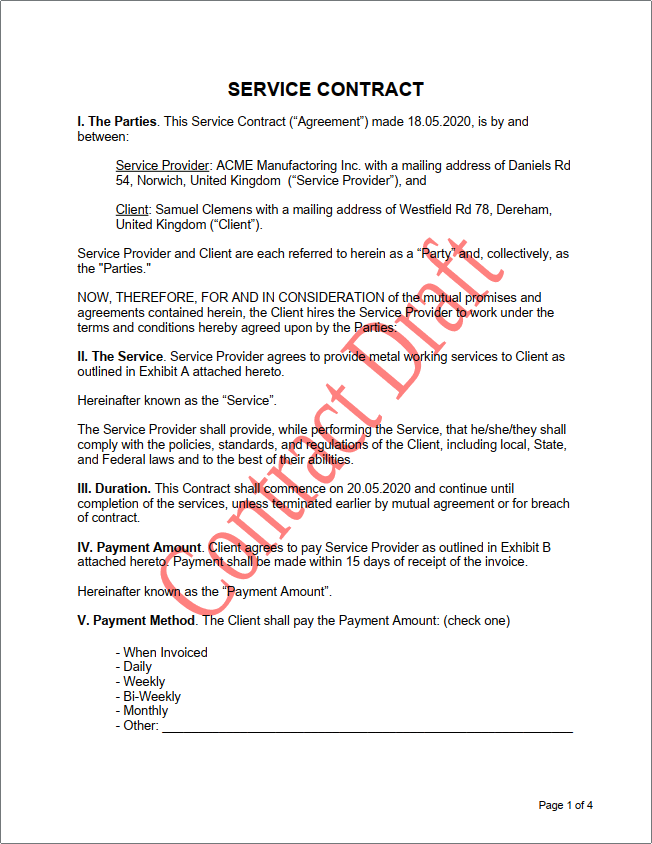
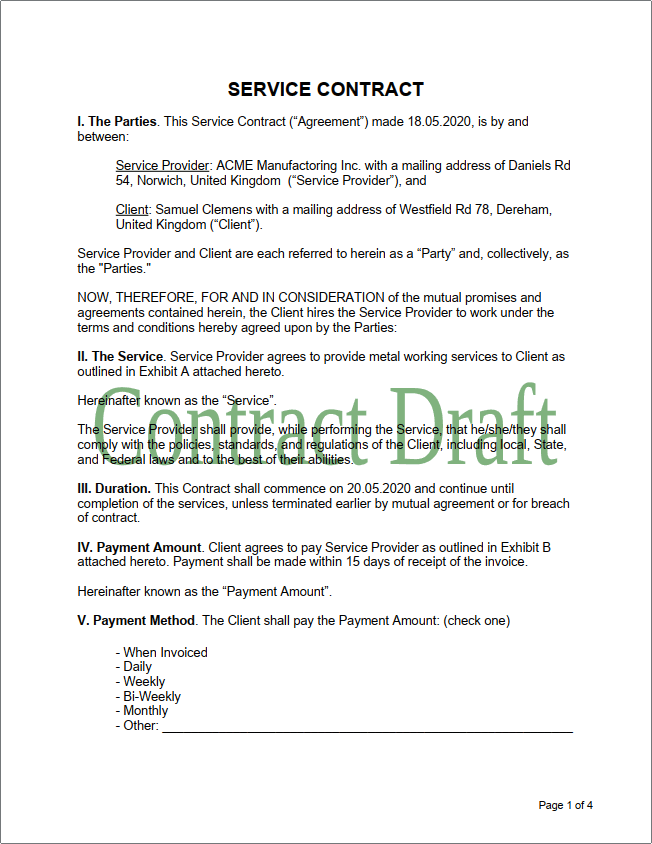
WATERMARKNET-1483: Describe how to customize watermarks

Changed region(s): [[0.1227, 0.2773, 0.8589, 0.7393]]

diff --git a/net/developer-guide/basic-usage/customize.md b/net/developer-guide/basic-usage/customize.md
@@ -8,33 +8,112 @@ keywords: rotate watermark, position watermark, move watermark, scale watermark
 productName: GroupDocs.Watermark for .NET
 hideChildren: True
 ---
-When adding watermarks, their orientation is not limited to horizontal only. You can specify whichever rotation angle you want. 
+GroupDocs.Watermark offers many capabilities to customize how the watermark would look and where it will be positioned within the document.
 
-To rotate text or image watermark, set the desired angle using the [Watermark.RotateAngle](https://reference.groupdocs.com/watermark/net/groupdocs.watermark/watermark/rotateangle/) property:
+## Customizing text watermarks
+
+To adjust a text watermark to your needs, use the properties of the [`TextWatermark`](https://reference.groupdocs.com/watermark/net/groupdocs.watermark.watermarks/textwatermark/#properties) class. 
+
+The following options could be set:
+| Option | Description |
+|--------|-------------|
+|**[BackgroundColor](https://reference.groupdocs.com/watermark/net/groupdocs.watermark.watermarks/textwatermark/backgroundcolor)** | Specifies the background color of the text. |
+|**[ConsiderParentMargins](https://reference.groupdocs.com/watermark/net/groupdocs.watermark/watermark/considerparentmargins)** | Whether to take into account the existing page margins of the document when calculating the watermark's size and coordinates. Default: false.|
+|**[Font](https://reference.groupdocs.com/watermark/net/groupdocs.watermark.watermarks/textwatermark/font)** | Specifies the current font of the text watermark. |
+|**[ForegroundColor](https://reference.groupdocs.com/watermark/net/groupdocs.watermark.watermarks/textwatermark/foregroundcolor)** | Specifies the foreground color of the text. |
+|**[Height](https://reference.groupdocs.com/watermark/net/groupdocs.watermark/watermark/height)** | Specifies the desired height of the watermark. |
+|**[HorizontalAlignment](https://reference.groupdocs.com/watermark/net/groupdocs.watermark/watermark/horizontalalignment)** | Specifies the horizontal alignment of the watermark. Possible values are `None` (default), `Left`, `Center`, and `Right`.|
+|**[IsBackground](https://reference.groupdocs.com/watermark/net/groupdocs.watermark/watermark/isbackground)** | Whether to place the watermark below (true) or above (true) the main content. Default: false. |
+|**[Margins](https://reference.groupdocs.com/watermark/net/groupdocs.watermark/watermark/margins)** | Specifies the watermark margins. |
+|**[Opacity](https://reference.groupdocs.com/watermark/net/groupdocs.watermark/watermark/opacity)** | Defines the opacity of the watermark as a value ranging from 0 (fully transparent) to 1 (solid filling). |
+|**[RotateAngle](https://reference.groupdocs.com/watermark/net/groupdocs.watermark/watermark/rotateangle/)** | Defines the rotation angle of the watermark. A positive value corresponds to a clockwise rotation angle, negative - to a counterclockwise rotation angle. |
+|**[ScaleFactor](https://reference.groupdocs.com/watermark/net/groupdocs.watermark/watermark/scalefactor)** | Specifies how the watermark size depends on the size of a parent document. |
+|**[SizingType](https://reference.groupdocs.com/watermark/net/groupdocs.watermark/watermark/sizingtype)** | Specifies a way the watermark should be sized. Possible values are `Auto` (default), `Absolute`, `ScaleToParentDimensions`, and `ScaleToParentArea`. |
+|**[Text](https://reference.groupdocs.com/watermark/net/groupdocs.watermark.watermarks/textwatermark/text)** | Defines the text of the watermark. |
+|**[TextAlignment](https://reference.groupdocs.com/watermark/net/groupdocs.watermark.watermarks/textwatermark/textalignment)** | Specifies the alignment of text. Possible values are `Left` (default), `Center`, `Right`, and `Justify`.  |
+|**[VerticalAlignment](https://reference.groupdocs.com/watermark/net/groupdocs.watermark/watermark/verticalalignment)** | Specifies the vertical alignment of the watermark. Possible values are `None` (default), `Left`, `Center`, and `Bottom`. |
+|**[Width](https://reference.groupdocs.com/watermark/net/groupdocs.watermark/watermark/width)** | Specifies the desired width of the watermark. |
+|**[X](https://reference.groupdocs.com/watermark/net/groupdocs.watermark/watermark/x)** | Specifies the horizontal coordinate of the watermark within the parent document. |
+|**[Y](https://reference.groupdocs.com/watermark/net/groupdocs.watermark/watermark/y)** | Specifies the vertical coordinate of the watermark within the parent document. |
+
+
+The code below demonstrates how to specify the desired watermark appearance and position before applying it to the document:
 
 ```csharp
 using GroupDocs.Watermark;
+using GroupDocs.Watermark.Common;
 using GroupDocs.Watermark.Watermarks;
 
 // Specify an absolute or relative path to your document.
 using (Watermarker watermarker = new Watermarker("C:\\Docs\\sample.docx"))
 {
     // Specify the desired text and font for the watermark
-    TextWatermark watermark = new TextWatermark("Top secret", new Font("Courier New", 14));
-    // Specify font color
-    watermark.ForegroundColor = Color.Red;    
-    // Set rotation angle
-    watermark.RotateAngle = 35;
+    TextWatermark watermark = new TextWatermark("Customized watermark.", new Font("Arial", 24, FontStyle.Bold));
+    // Specify the appearance and the position of the watermark
+    watermark.ForegroundColor = Color.DarkOrange;
+    watermark.ConsiderParentMargins = true;
+    watermark.HorizontalAlignment = HorizontalAlignment.Center;
+    watermark.VerticalAlignment = VerticalAlignment.Top;
+    watermark.SizingType = SizingType.ScaleToParentDimensions;
+    watermark.RotateAngle = 45;
+    watermark.ScaleFactor = 0.7;
     // Apply the watermark
     watermarker.Add(watermark);
     // Save the resulting document
     watermarker.Save("C:\\Docs\\watermarked-sample.docx");
 }
 ```
-Run the program. A watermark will be added at a specified angle.
+Run the program. A watermark will be added at a specified position and will have the specified look.
 
-![Rotating watermarks](/watermark/net/images/watermarking/angled-watermark.png)
+![Customized text watermark](/watermark/net/images/watermarking/custom-text-watermark.png)
 
-### What's next
+## Customizing image watermarks
 
-GroupDocs.Watermark offers many more capabilities for adding text watermarks. For example, it allows specifying background and foreground colors, formatting, text opacity, use of absolute or relative positioning, and so on. To learn more about this, see the [Adding text watermarks]({{< ref "watermark/net/developer-guide/advanced-usage/adding-watermarks/adding-text-watermarks.md" >}}) article of the "Advanced usage" section.
+Image watermarks have similar settings that affect their look and position. To adjust an image watermark, use the properties of the [`ImageWatermark`](https://reference.groupdocs.com/watermark/net/groupdocs.watermark.watermarks/imagewatermark/#properties) class. 
+
+The following options could be set:
+| Option | Description |
+|--------|-------------|
+|**[ConsiderParentMargins](https://reference.groupdocs.com/watermark/net/groupdocs.watermark/watermark/considerparentmargins)** | Whether to take into account the existing page margins of the document when calculating the watermark's size and coordinates. Default: false.|
+|**[Height](https://reference.groupdocs.com/watermark/net/groupdocs.watermark/watermark/height)** | Specifies the desired height of the watermark. |
+|**[HorizontalAlignment](https://reference.groupdocs.com/watermark/net/groupdocs.watermark/watermark/horizontalalignment)** | Specifies the horizontal alignment of the watermark. Possible values are `None` (default), `Left`, `Center`, and `Right`.|
+|**[IsBackground](https://reference.groupdocs.com/watermark/net/groupdocs.watermark/watermark/isbackground)** | Whether to place the watermark below (true) or above (true) the main content. Default: false. |
+|**[Margins](https://reference.groupdocs.com/watermark/net/groupdocs.watermark/watermark/margins)** | Specifies the watermark margins. |
+|**[Opacity](https://reference.groupdocs.com/watermark/net/groupdocs.watermark/watermark/opacity)** | Defines the opacity of the watermark as a value ranging from 0 (fully transparent) to 1 (solid filling). |
+|**[RotateAngle](https://reference.groupdocs.com/watermark/net/groupdocs.watermark/watermark/rotateangle/)** | Defines the rotation angle of the watermark. A positive value corresponds to a clockwise rotation angle, negative - to a counterclockwise rotation angle. |
+|**[ScaleFactor](https://reference.groupdocs.com/watermark/net/groupdocs.watermark/watermark/scalefactor)** | Specifies how the watermark size depends on the size of a parent document. |
+|**[SizingType](https://reference.groupdocs.com/watermark/net/groupdocs.watermark/watermark/sizingtype)** | Specifies a way the watermark should be sized. Possible values are `Auto` (default), `Absolute`, `ScaleToParentDimensions`, and `ScaleToParentArea`. |
+|**[VerticalAlignment](https://reference.groupdocs.com/watermark/net/groupdocs.watermark/watermark/verticalalignment)** | Specifies the vertical alignment of the watermark. Possible values are `None` (default), `Left`, `Center`, and `Bottom`. |
+|**[Width](https://reference.groupdocs.com/watermark/net/groupdocs.watermark/watermark/width)** | Specifies the desired width of the watermark. |
+|**[X](https://reference.groupdocs.com/watermark/net/groupdocs.watermark/watermark/x)** | Specifies the horizontal coordinate of the watermark within the parent document. |
+|**[Y](https://reference.groupdocs.com/watermark/net/groupdocs.watermark/watermark/y)** | Specifies the vertical coordinate of the watermark within the parent document. |
+
+
+The code below demonstrates how to specify the desired watermark appearance and position before applying it to the document:
+
+```csharp
+using GroupDocs.Watermark;
+using GroupDocs.Watermark.Common;
+using GroupDocs.Watermark.Watermarks;
+
+// Specify an absolute or relative path to your document.
+using (Watermarker watermarker = new Watermarker("C:\\Docs\\seagull.jpg"))
+{
+    // Specify the desired text and font for the watermark
+    ImageWatermark watermark = new ImageWatermark("C:\\Docs\\greetings-stamp.png");
+    // Specify watermark position, rotation and opacity
+    watermark.HorizontalAlignment = HorizontalAlignment.Right;
+    watermark.VerticalAlignment = VerticalAlignment.Top;
+    watermark.RotateAngle = 15;
+    watermark.IsBackground = false;
+    watermark.Opacity = 0.8;
+    // Apply the watermark
+    watermarker.Add(watermark);
+    // Save the resulting document
+    watermarker.Save("C:\\Docs\\custom-image-watermark.jpg");
+}
+```
+Run the program. An image watermark will be added at a specified position.
+
+![Customized image watermark](/watermark/net/images/watermarking/custom-image-watermark.png)
+

diff --git a/net/developer-guide/basic-usage/add-text.md b/net/developer-guide/basic-usage/add-text.md
@@ -29,9 +29,8 @@ using (Watermarker watermarker = new Watermarker("C:\\Docs\\contract.docx"))
     // Specify the desired text and font for the watermark
     TextWatermark watermark = new TextWatermark("Contract Draft", new Font("Arial", 60, FontStyle.Bold));
     // Specify font color and text opacity, rotation and alignments
-    watermark.ForegroundColor = Color.Red;
+    watermark.ForegroundColor = Color.DarkGreen;
     watermark.Opacity = 0.5;
-    watermark.RotateAngle = -50;
     watermark.HorizontalAlignment = HorizontalAlignment.Center;
     watermark.VerticalAlignment = VerticalAlignment.Center;
     // Apply the watermark
